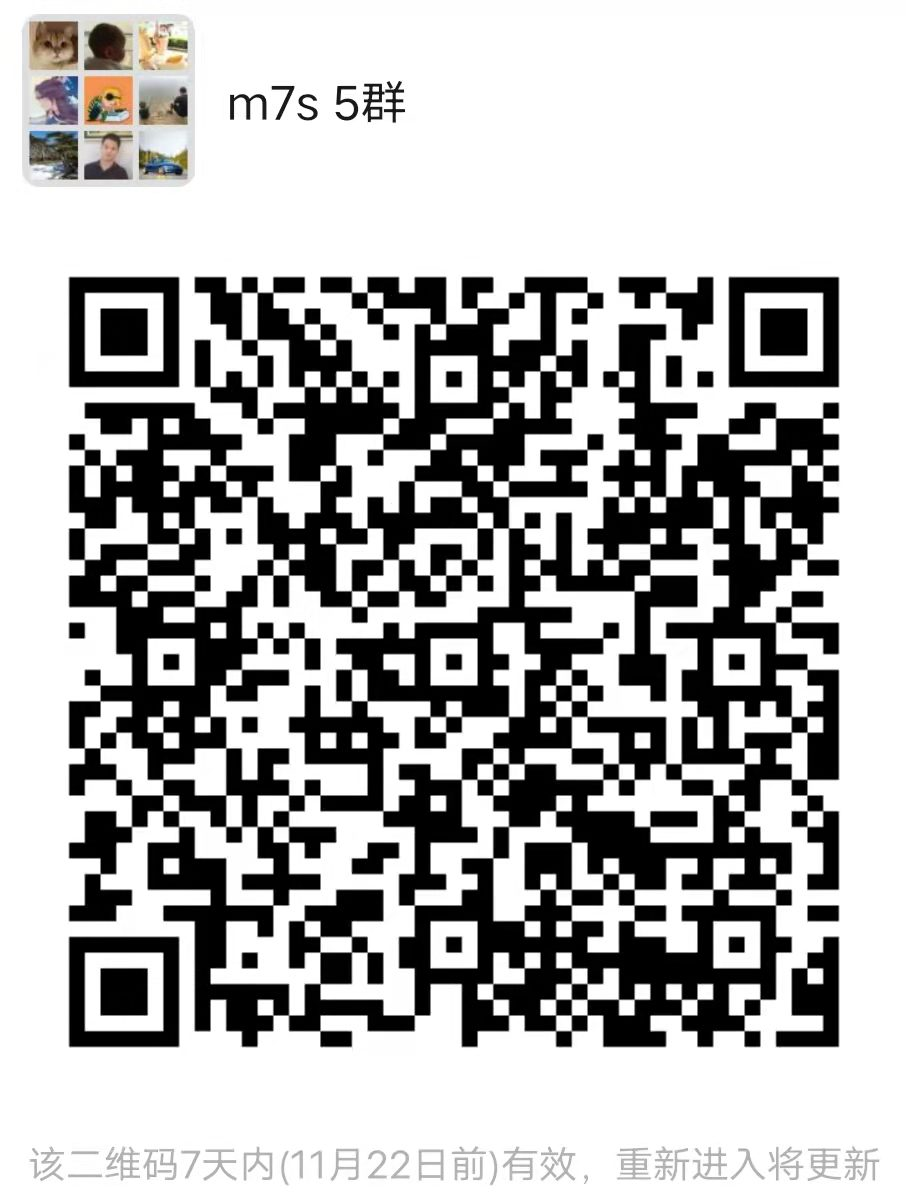
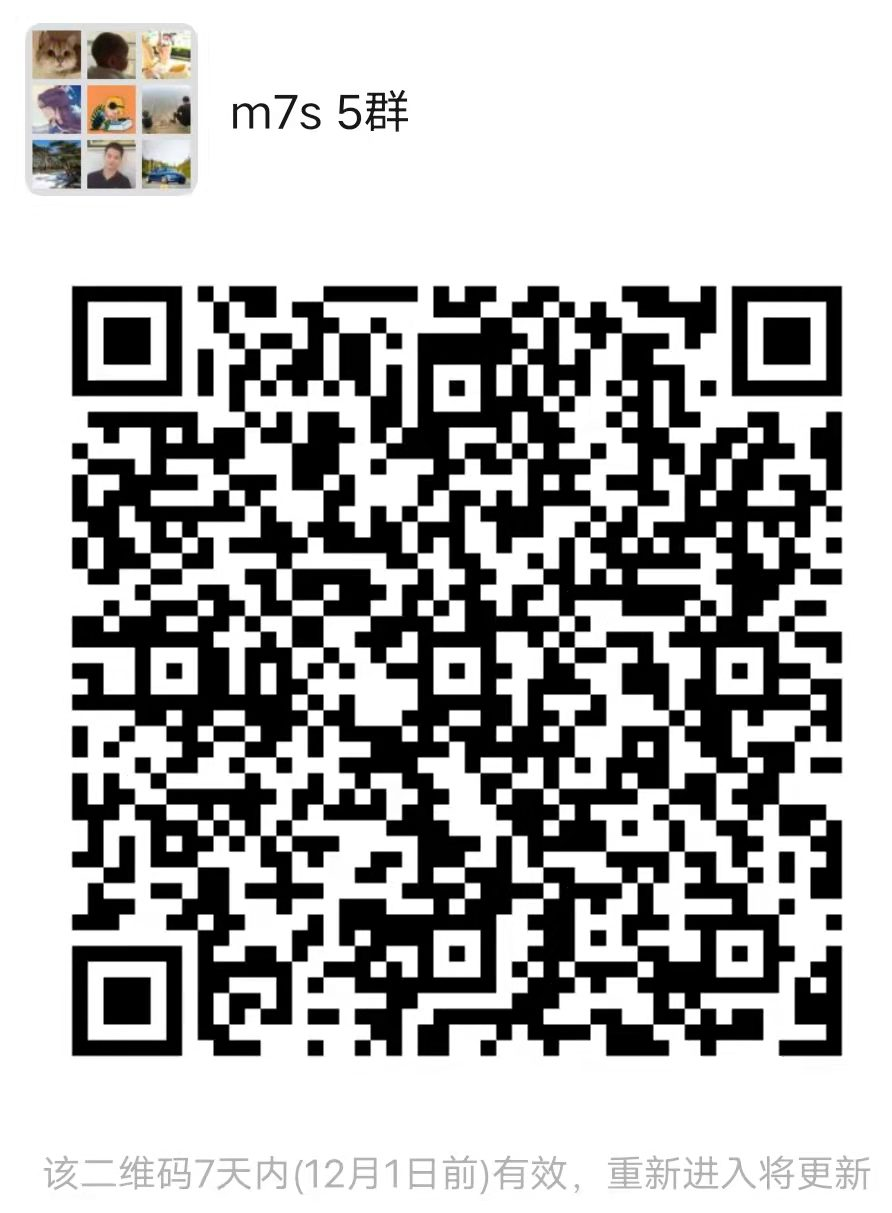
更新版本和二维码

diff --git a/src/App.vue b/src/App.vue
@@ -41,7 +41,7 @@ export default defineComponent({
       payClass[lastValue] = 'animate__flipInY';
     }));
     return {
-      version: 'v3.0.8',
+      version: 'v3.0.11',
       payClass,
       darkTheme: createTheme([modalDark, cardDark, radioDark, tabsDark]),
       zhCN,
